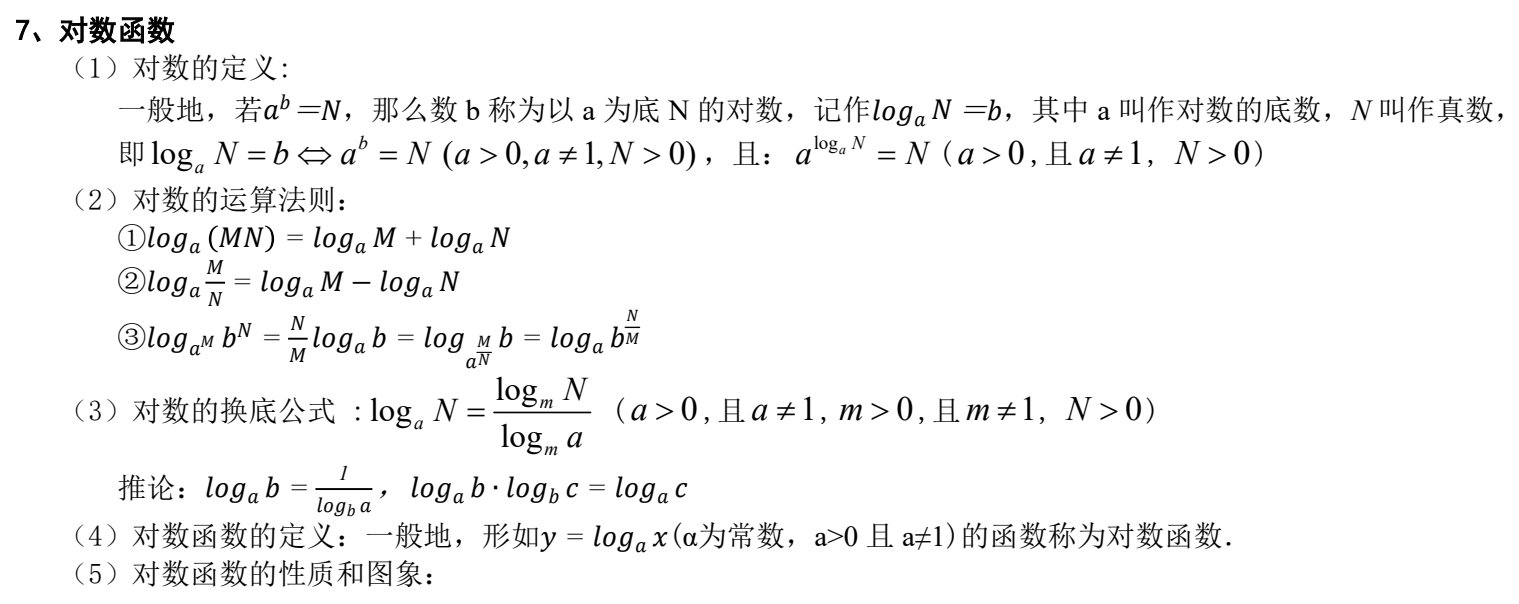
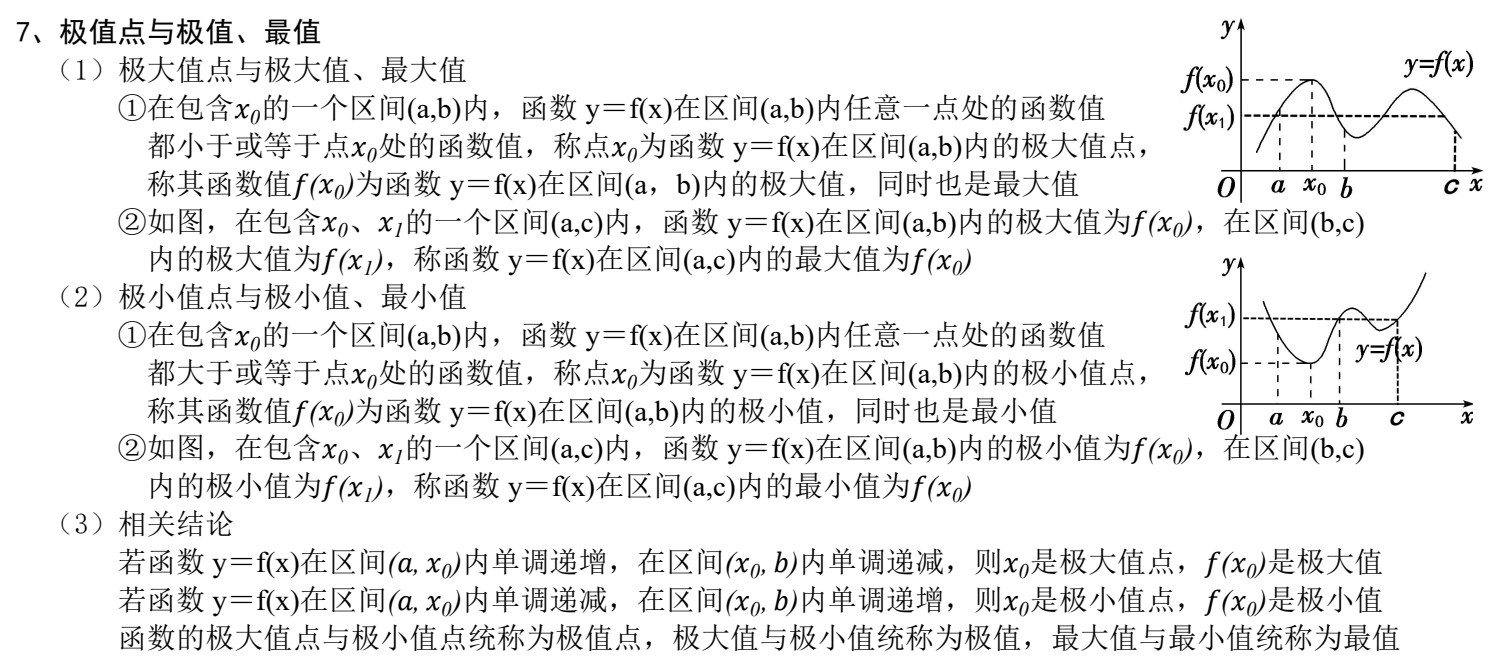
publish daily problems

diff --git a/2/index.html b/2/index.html
@@ -3,7 +3,7 @@
 <head>
 <meta charset="utf-8">
 <meta name="viewport" content="width=device-width, initial-scale=1">
-<title>每日一题 · 2026-10-18</title>
+<title>每日一题 · 2026-10-19</title>
 <style>
 *{box-sizing:border-box;margin:0;padding:0}
 html,body{height:100%}
@@ -64,27 +64,30 @@ display:flex;justify-content:center;align-items:center;overflow:hidden;flex:1;mi
 <div class="screen">
   <header>
     <h1>每日一题</h1>
-    <div class="meta">2026-10-18　|　学科网 · 河南平顶山部分校10月过程性作业评价</div>
-    <div class="topic">指数对数函数性质与不等式</div>
+    <div class="meta">2026-10-19　|　学科网 · 河南平顶山部分校10月过程性作业评价</div>
+    <div class="topic">导数求最值与恒成立问题</div>
   </header>
   <main>
-    <div class="stem">已知互不相等的实数 a，b，c 满足 log₁.₂a = 1, 2ᵇ = c，则（  ）</div>
+    <div class="stem">已知函数 f(x) = -xe^{x+1}。
+（1）若 f(x) ≤ a 恒成立，求实数 a 的取值范围；
+（2）若曲线 y = f(x) 过点 (s, t)，求 f(t) - f(s) 的最小值。</div>
     
-    <div class="opts"><div class="opt"><b>A.</b>a>1</div><div class="opt"><b>B.</b>a<c<b</div><div class="opt"><b>C.</b>(a-c)/(b-c)<0</div><div class="opt"><b>D.</b>b<c<a</div></div>
+    <div class="subs"><div class="sub">若 f(x) ≤ a 恒成立，求实数 a 的取值范围；</div><div class="sub">若曲线 y = f(x) 过点 (s, t)，求 f(t) - f(s) 的最小值。</div></div>
   </main>
   <footer>
     <button id="btn" onclick="document.getElementById('ans').classList.toggle('on');this.textContent=this.textContent.includes('显示')?'隐藏答案':'显示答案'">显示答案</button>
-    <div class="ans" id="ans"><div class="akey">答案：AC</div></div>
+    <div class="ans" id="ans"><div class="akey">答案：（1） [1, +∞)
+（2） -e² - 1</div></div>
   </footer>
   <div class="hint">↓ 向下滑动：进入「知识点背诵」</div>
 </div>
 <div class="screen">
   <header>
     <h1>知识点背诵</h1>
-    <div class="meta">2026-10-18　|　学科网 · 河南平顶山部分校10月过程性作业评价</div>
-    <div class="topic">对数函数</div>
+    <div class="meta">2026-10-19　|　学科网 · 河南平顶山部分校10月过程性作业评价</div>
+    <div class="topic">极值点与极值、最值</div>
   </header>
-  <div class="rcards"><div class="kcard"><img src="k.png" alt="知识点"></div><div class="rcard pcard"><div class="rrow"><span class="rtag">练手</span><span class="rtext">《九章方略》限时练 5「指、对、幂函数」—— 与本题考点相关的题都在这一练里</span></div></div></div>
+  <div class="rcards"><div class="kcard"><img src="k.png" alt="知识点"></div><div class="rcard pcard"><div class="rrow"><span class="rtag">练手</span><span class="rtext">《九章方略》限时练 11「导数的综合应用」—— 与本题考点相关的题都在这一练里</span></div></div></div>
   <div class="hint">↑ 向上滑动：返回「每日一题」</div>
 </div>
 <script>

diff --git a/1/index.html b/1/index.html
@@ -3,7 +3,7 @@
 <head>
 <meta charset="utf-8">
 <meta name="viewport" content="width=device-width, initial-scale=1">
-<title>每日一题 · 2026-10-18</title>
+<title>每日一题 · 2026-10-19</title>
 <style>
 *{box-sizing:border-box;margin:0;padding:0}
 html,body{height:100%}
@@ -64,27 +64,27 @@ display:flex;justify-content:center;align-items:center;overflow:hidden;flex:1;mi
 <div class="screen">
   <header>
     <h1>每日一题</h1>
-    <div class="meta">2026-10-18　|　学科网 · 河南平顶山部分校10月过程性作业评价</div>
-    <div class="topic">函数零点与奇偶性</div>
+    <div class="meta">2026-10-19　|　学科网 · 河南平顶山部分校10月过程性作业评价</div>
+    <div class="topic">充分不必要条件与集合包含</div>
   </header>
   <main>
-    <div class="stem">函数 f(x) = (√(1-x) + √(1+x))/(x²+1) - m (m ∈ R) 只有一个零点，则 m = (    )</div>
+    <div class="stem">若“m-1<x<m”是“|x|<5”的充分不必要条件，则实数 m 的取值范围为________.</div>
     
-    <div class="opts"><div class="opt"><b>A.</b>√2/2</div><div class="opt"><b>B.</b>1</div><div class="opt"><b>C.</b>√2</div><div class="opt"><b>D.</b>2</div></div>
+    <div class="subs"></div>
   </main>
   <footer>
     <button id="btn" onclick="document.getElementById('ans').classList.toggle('on');this.textContent=this.textContent.includes('显示')?'隐藏答案':'显示答案'">显示答案</button>
-    <div class="ans" id="ans"><div class="akey">答案：D</div></div>
+    <div class="ans" id="ans"><div class="akey">答案：[-4,5]</div></div>
   </footer>
   <div class="hint">↓ 向下滑动：进入「知识点背诵」</div>
 </div>
 <div class="screen">
   <header>
     <h1>知识点背诵</h1>
-    <div class="meta">2026-10-18　|　学科网 · 河南平顶山部分校10月过程性作业评价</div>
-    <div class="topic">函数的性质</div>
+    <div class="meta">2026-10-19　|　学科网 · 河南平顶山部分校10月过程性作业评价</div>
+    <div class="topic">常用逻辑用语</div>
   </header>
-  <div class="rcards"><div class="kcard"><img src="k.png" alt="知识点"></div><div class="rcard pcard"><div class="rrow"><span class="rtag">练手</span><span class="rtext">《九章方略》限时练 4「函数的概念与性质」—— 与本题考点相关的题都在这一练里</span></div></div></div>
+  <div class="rcards"><div class="kcard"><img src="k.png" alt="知识点"></div><div class="rcard pcard"><div class="rrow"><span class="rtag">练手</span><span class="rtext">《九章方略》限时练 1「集合与常用逻辑用语」—— 与本题考点相关的题都在这一练里</span></div></div></div>
   <div class="hint">↑ 向上滑动：返回「每日一题」</div>
 </div>
 <script>
